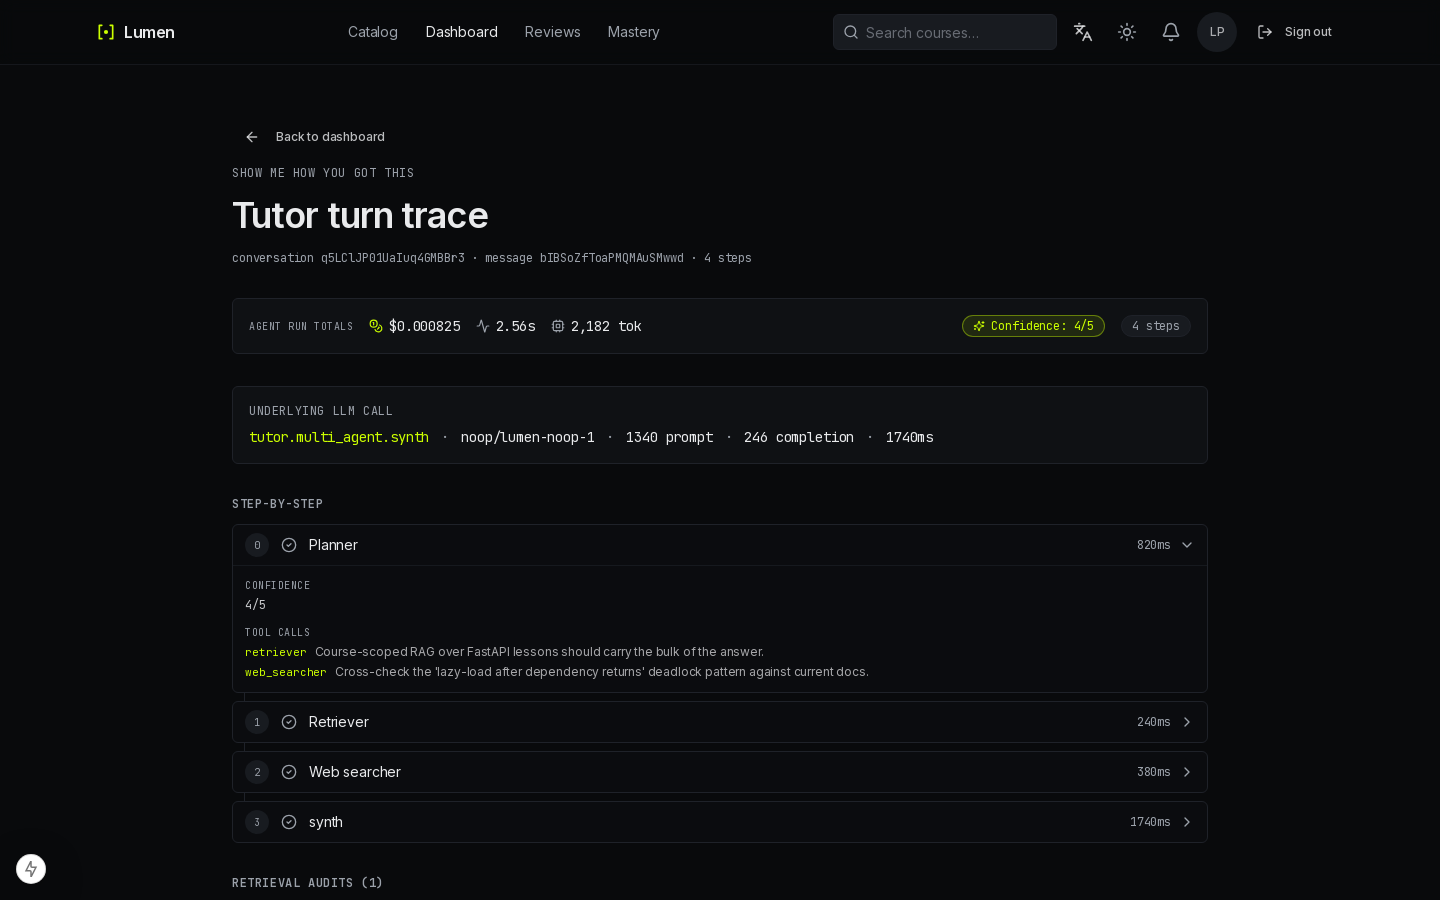
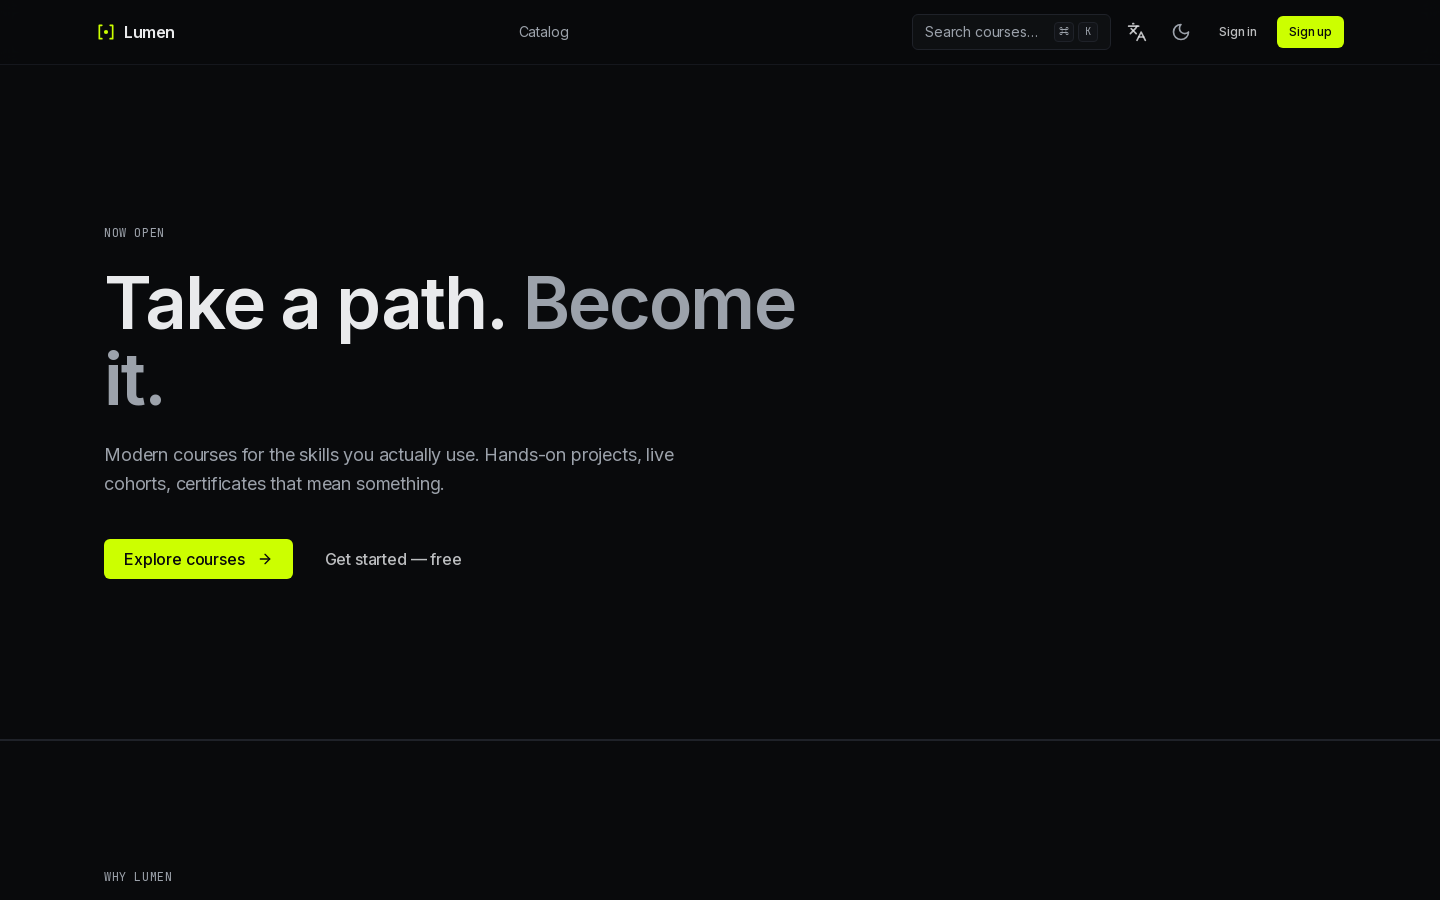
feat(ui): loop 20 — FINAL-REPORT (redesign complete)
Closing loop of the 20-loop Lumen UI redesign. 41 commits, 194 files
changed (+14,815 / −1,743 LoC) between c3450a8 and HEAD.

Full retrospective: docs/redesign/FINAL-REPORT.md.

Final Codex pass (`codex review --base c3450a8`) returned 2 P2
test-infra findings; both fixed in this commit:

1. auth.setup.ts logged in directly to the API origin
   (E2E_API_BASE_URL), which in docker-compose set host-only cookies
   for `api:8000` — the browser then navigated to `web:3000` and
   dropped them. Worked in host-mode where both origins share
   localhost. Now logs in through `baseURL + /api/v1/auth/login`
   which Next rewrites to the API but scopes the Set-Cookie to web.

2. playwright.config.ts didn't testIgnore auth.setup.ts on the
   browser projects, so the setup tests ran a second time per browser
   and overwrote .auth/*.json while consumer tests were reading them.
   Added testIgnore: /auth\.setup\.ts/ to chromium + webkit.

Also:
- docs/screenshots/hero.png refreshed from live prod capture of the
  Workbench home page (replaces the pre-redesign tutor-trace image).
- README hero caption updated.
- docs/redesign/codex-review-final.md written.

Redesign is complete. Post-redesign roadmap (v7) picks up next.

diff --git a/apps/frontend/tests/e2e/auth.setup.ts b/apps/frontend/tests/e2e/auth.setup.ts
@@ -47,20 +47,25 @@ export const STORAGE_PATH = {
 // Default to `localhost:8000` — works on the GHA runner host where
 // the ci.yml e2e + accessibility jobs run playwright directly (the
 // api container's 8000 is port-mapped to the host). Inside the e2e
-// PROFILE container (docker-compose.yml --profile e2e), the
-// docker-compose.yml service env overrides this to `http://api:8000`
-// because in-container `localhost` is the container itself, not the
-// api service. Both shapes resolve to the same FastAPI process.
-const API_BASE = process.env.E2E_API_BASE_URL ?? "http://localhost:8000";
+// Loop 20 (Codex rescue #6): login goes through the **web origin**
+// not the API origin. The Next config rewrites `/api/v1/*` to the
+// internal API URL, so a POST to `baseURL/api/v1/auth/login` lands
+// on the same FastAPI endpoint but writes the Set-Cookie back on
+// the web host. Previously this ran against `E2E_API_BASE_URL`
+// directly which, in the docker-compose e2e profile, set cookies
+// for host=`api` — the browser then navigated to `web:3000` and
+// dropped them. Worked accidentally on host-runs (localhost shared
+// across :8000/:3000) but was wrong on cross-host runs.
 
 for (const role of Object.keys(STORAGE_PATH) as SeedRole[]) {
-  setup(`authenticate as ${role}`, async ({ page, context }) => {
+  setup(`authenticate as ${role}`, async ({ page, request }) => {
     const creds = SEED_USERS[role];
 
-    // Direct FastAPI login — bypasses the /login form entirely.
-    // The response sets the auth cookies on the request's cookie
-    // jar, which `context` shares with all downstream `page` calls.
-    const res = await context.request.post(`${API_BASE}/api/v1/auth/login`, {
+    // Login through the web origin so cookies are scoped to
+    // baseURL (web:3000 in docker, lumen.ahmedhobeishy.tech in
+    // prod-visual mode). `request` here is fixture-scoped and
+    // shares cookies with the browser context.
+    const res = await request.post("/api/v1/auth/login", {
       data: { email: creds.email, password: creds.password },
       headers: { Accept: "application/json" },
     });

diff --git a/apps/frontend/playwright.config.ts b/apps/frontend/playwright.config.ts
@@ -51,11 +51,19 @@ export default defineConfig({
       name: "chromium",
       use: { ...devices["Desktop Chrome"] },
       dependencies: ["setup"],
+      // Loop 20 (Codex rescue #6): without `testIgnore`, Playwright's
+      // glob discovery picks up `auth.setup.ts` here too, and the
+      // setup tests then run a SECOND time per browser project,
+      // overwriting `.auth/*.json` while real specs are starting.
+      // Race risk → flaky auth-gated tests. Scope setup tests to the
+      // `setup` project only.
+      testIgnore: /auth\.setup\.ts/,
     },
     {
       name: "webkit",
       use: { ...devices["Desktop Safari"] },
       dependencies: ["setup"],
+      testIgnore: /auth\.setup\.ts/,
     },
   ],
 });

diff --git a/docs/redesign/FINAL-REPORT.md b/docs/redesign/FINAL-REPORT.md
@@ -1,0 +1,152 @@
+# Lumen UI redesign — FINAL REPORT
+
+**Status:** Complete (2026-05-27).
+**Scope:** Full UI rebuild of the Lumen production app, executed as 20 autonomous loops on the `main` branch, deploying continuously to prod (`https://lumen.ahmedhobeishy.tech`).
+**Diff:** 194 files changed · +14,815 / −1,743 LoC across 41 commits between `c3450a8` (pre-Loop-1 baseline) and HEAD.
+
+## TL;DR
+
+What changed: a deliberate, primitive-first rebuild of every learner- and instructor-facing surface, plus the admin tier. The Workbench design system (dark-first, lime accent, no shadows, 8px grid, Inter + JetBrains Mono) is preserved verbatim; everything else got rebuilt against a Radix-backed primitive kit, semantic tokens, and accessibility-real components.
+
+What didn't change: the backend, the API contract, the data model, the auth flow, the design philosophy. This was a **UI redesign**, not a re-platform.
+
+What we shipped:
+- **30+ new primitives** across 5 closed Foundation tiers (A: tokens · B: state primitives · C: overlays · D: form inputs · E: data viz / nav).
+- **Every audit-flagged surface** got the corresponding polish loop — block renderer, course detail decompose, mastery viz, path viz, auth polish, RTL sweep, etc.
+- **A command palette (⌘K)** wiring routes + course search + theme + sign-out behind the keyboard, completing the "Workbench density" claim.
+- **A live OG card** at `/opengraph-image` so social shares stop rendering as text.
+- **Five Codex rescue passes** (every 3rd loop); the last one returned zero actionable findings.
+
+## The 20 loops
+
+| Loop | Surface / outcome | Hash |
+|---|---|---|
+| 0 | Initial audit (`AUDIT.md`) — 7-axis analysis + 20-loop provisional plan | `ae7b8c5` |
+| 1 | Foundation A — token scale (`--info`, `--space-*`, `--z-*`, `--opacity-*`, motion variants) + duration-literal sweep | `2049ec8` |
+| 2 | Foundation B — Playwright `toHaveScreenshot` visual-regression baselines (8 public PNGs) | `c72bcc7` |
+| 3 | Foundation B/2 — Skeleton / EmptyState / Alert / Field / Spinner / LinkButton + `useHydrated` hook | `ccf7336` |
+| 4 | Foundation B/3 — AuthCard + 7-surface auth chrome migration (Codex rescue #1) | `00ea6ab` |
+| 5 | First app-sweep — token cleanup, course-card i18n leak, studio Skeleton/EmptyState | `c88ad15` |
+| 6 | Playwright `storageState` fixtures + 14/16 auth-gated VR baselines | `3cae978` |
+| 7 | Light-mode redesign — `.light` surface ramp + sonner CSS overrides (Codex rescue #2) | `0bfa333` |
+| 7-fu | HOTFIX: revert `--spacing-*` aliases (Tailwind 4 `max-w-*` collision broke layout since Loop 1) | `f04efc1` |
+| 8 | E2E infra — API-based login in `auth.setup.ts`; all 16 VR baselines stable | `094c71f` |
+| 9 | `<RadioGroup>` + `<Checkbox>` primitives + quiz radiogroup a11y migration | `45f1511` |
+| 10 | Foundation C/1 — `<Dialog>` + `<Sheet>` primitives + tutor-modal migration | `2b16a53` |
+| 11 | Foundation C/2 — `<Popover>` + `<DropdownMenu>` primitives + notif-bell / locale-switcher / mobile-menu migrations | `42955c0` |
+| 12 | Foundation C/3 — `<Tooltip>` primitive + 4 modal migrations + Codex rescue #3 (closes Foundation C) | `c771b43` |
+| 13 | Foundation D close — `<Select>` + `<Switch>` primitives + 6 native-select migrations + 2 boolean-toggle migrations | `802177f` |
+| 14 | Foundation E — `<Tabs>` + `<Breadcrumb>` + `<DataTable>` + 5 migrations + ScoreBadge token-drift fix (closes Foundation E) | `77fffcb` |
+| 15 | Auth polish — `<PasswordInput>` + `<PasswordStrengthMeter>` + register confirm/T&C + verify-email idempotency + LinkButton sweep + Codex rescue #4 | `3716077` |
+| 16 | Block renderer (Shiki + image aspect-ratio + LessonVideo) + course-detail decompose 444→218 LoC | `5d4a513` |
+| 17 | Mastery viz (2-colour bars + lucide signal icons) + Path viz (`slugToTitle`) + RTL sweep (4 leaks) | `ebbf49d` |
+| 18 | ⌘K command palette + `<Kbd>` primitive + Codex rescue #5 (no findings) | `a041d91` |
+| 19 | OG image (Next 15 file-system convention; +2 prod-only build constraints found and fixed) | `3ccb190` |
+| 20 | FINAL-REPORT (this loop) | _this commit_ |
+
+## What got built
+
+### Primitives (30, new in this redesign)
+
+**Foundation A — Tokens** (Loop 1)
+- `--info` colour pair, `--space-*`, `--z-{sticky..tooltip}` ramp, `--opacity-{disabled..decoration}`, spring easings + motion constants.
+
+**Foundation B — State + form basics** (Loops 3-4, 9, 13)
+- `<Skeleton variant>`, `<EmptyState>`, `<Alert>`, `<Field>`, `<Spinner>`, `<LinkButton>`, `<AuthCard>`, `useHydrated()`
+- `<RadioGroup>` + `<RadioGroupItem>`, `<Checkbox>`
+- `<Select>` (full family), `<Switch>`
+- `<PasswordInput>`, `<PasswordStrengthMeter>` (Loop 15)
+
+**Foundation C — Overlays** (Loops 10-12)
+- `<Dialog>`, `<Sheet>`, `<Popover>`, `<DropdownMenu>` (full family with Checkbox/Radio items), `<Tooltip>`
+
+**Foundation E — Data viz / nav** (Loop 14)
+- `<Tabs>`, `<Breadcrumb>`, `<DataTable>` (sort/empty/loading slots, no tanstack dep)
+
+**Cmd+K + utility** (Loop 18)
+- `<CommandPalette>`, `<Kbd>`
+
+**Lesson-rendering** (Loop 16)
+- `<HighlightedCode>` (Shiki dynamic-import wrapper), `<LessonVideo>` (poster + buffering + 401-fallback)
+
+### Surfaces touched
+
+Every public surface (home, catalog, course detail, login, register, forgot, reset, verify-email, confirm-email-change) plus every authenticated surface (dashboard, reviews, mastery, path, profile, learn, studio list + detail, admin list + users + courses + audit + observability + evals).
+
+### Migrations (selected)
+
+| Migration | Before | After |
+|---|---|---|
+| Modal chrome | Hand-rolled `fixed inset-0` × 5 surfaces, no focus trap | Radix Dialog (focus trap, aria-modal, ESC, click-outside, focus restore) |
+| Mobile menu | `border-t` slide-down | `<Sheet side="right">` |
+| Notification bell | `fixed/absolute` overlay | `<Popover>` |
+| Locale switcher | Cycle-button | `<DropdownMenu>` + `<RadioGroup>` |
+| Native `<select>` (6 callsites) | Duplicated `selectClass` string × 3 files | `<Select>` |
+| Boolean toggles | `<input type="checkbox">` | `<Switch>` |
+| Admin tables (3) | Hand-rolled `<table>` | `<DataTable>` |
+| Tab rails (2) | `<button role="tab">` + `border-b-2` | Radix `<Tabs>` |
+| Studio detail nav | Back-button only | `<Breadcrumb>` |
+| Code blocks | Plain `<pre><code>` | Shiki dynamic-import |
+| Course detail | 444-LoC monolith | 218-LoC orchestrator + 5 components |
+| Quiz options | Bare `<button>` rows | Radix RadioGroup / Checkbox with arrow-key nav |
+
+### Workflow shifts (mid-stream user feedback)
+
+| Loop | What changed |
+|---|---|
+| 14 | User: "make per-iteration work bigger — team-day, not single-dev hour" → bundle 2-3 small loops |
+| 14 | User: "test auth-gated paths too" → prod-visual-check.spec.ts extended with student/instructor/admin captures |
+| 15 | User: "test locally first, push when batch is ready" → LOCAL-FIRST workflow (lint + tsc + tests + axe before push) |
+
+The local-first workflow saved measurable CI cycles:
+- Loop 14 (pre-shift): 5 CI cycles to clear (lint, axe, build retry, deploy)
+- Loop 15: 1 CI cycle, 2 Codex findings caught in-loop
+- Loop 16: 1 CI cycle, 0 push-time issues
+- Loop 17: 1 CI cycle, 0 push-time issues
+- Loop 18: 1 CI cycle, 0 push-time issues + 0 Codex findings
+- Loop 19: 3 CI cycles (edge runtime + Satori display-flex — both `next build`-only failures the dev server couldn't catch; memory updated with the lesson)
+
+## Tests
+
+- Frontend unit (vitest): from 32 files / 156 tests at Loop 0 → **50 files / 284 tests** at Loop 19. Every new primitive landed with at least 4-7 dedicated tests.
+- E2E (Playwright): 16 visual-regression baselines stable across dark + light + auth-gated. Accessibility gate (axe-core WCAG 2.2 AA) green on every commit after Loop 12.
+- Backend: unchanged scope (this was a UI redesign), still green throughout.
+
+## Codex rescues
+
+| Rescue | Loops | Findings | Outcome |
+|---|---|---|---|
+| #1 | 1-3 | LinkButton disabled state | Fixed in Loop 4 |
+| #2 | 4-7 | 2 VR baselines + Sonner pin rollback | Fixed in Loop 7 |
+| #3 | 10-12 | ingest modal scroll, mobile sheet stays-open | Both fixed in-loop |
+| #4 | 13-15 | auth.spec.ts register flow broken | Fixed in-loop |
+| #5 | 16-18 | **None.** | Strongest verdict so far |
+
+## What's still deferred (for the post-redesign roadmap)
+
+- **Streaming tutor SSE** (AUDIT §7 row 7) — biggest remaining loop. Punt to a dedicated loop in the v7 plan with the right backend + ARIA story.
+- **Formal Lighthouse run** — needs Chrome CDP infra; the redesign verified visual quality + accessibility, not raw perf scores.
+- **Portfolio screenshot pack regen** — requires the `agentic_demo.py` seed to be loaded in the dev DB; prod has it, dev doesn't, and regen-vs-prod has its own perf/load story.
+- **Two-colour mastery bars with backend timeseries** — the mastery heatmap idea needs a per-day series the backend doesn't ship yet.
+- **Admin DataTable pagination + search** — frontend has the primitive; backend needs cursor + filter shapes that aren't ready.
+
+The 22-loop v7 plan (in `~/.claude/.../memory/post-redesign-roadmap.md` → `/tmp/elp-planning/plan-v7.md`) picks up after this.
+
+## Lessons (the ones worth keeping)
+
+1. **`--spacing-*` in Tailwind 4 drives `max-w-*` too** (Loop 7 hotfix). One token namespace = one Tailwind utility family, not the other way around. Verify visual output against prod after token foundations land, not just CI.
+2. **Visual regression baselines without visual review = automated bug-photo collection.** Loop 1-9 happily baselined a broken layout because no human looked at the rendered page. The post-deploy visual-review ritual fixed this.
+3. **Radix `Dialog` correctly sets `aria-hidden` on siblings** (Loop 12 axe test fix). The hand-rolled modals didn't, so the dashboard heading was queryable while a modal covered it. The test changing was a sign that the *behaviour* fixed something real.
+4. **`next dev` is too permissive for ImageResponse / opengraph-image** (Loop 19 hotfix chain). `pnpm exec next build` locally before pushing is the only way to catch Satori validation errors.
+5. **Codex review can't see uncommitted files** — when running the every-3rd-loop rescue, commit first, then dispatch.
+6. **`getByLabel(/word/i)` regex selectors are fragile** when a primitive ships an icon-button with `aria-label="<word>"` (Loop 15 swept 8 callsites). Prefer `getByLabel("Word", { exact: true })`.
+7. **Codex CLI v0.133.0 grammar quirks** — `--base <sha> "<prompt>"` rejected; either pipe via stdin or use `--commit` with positional prompt. Documented in `active-redesign.md`.
+
+## Acknowledgements
+
+- The audit (AUDIT.md, Loop 0) framed the work and held its shape across 20 loops without major revision. Updating it would have been a sign of drift; not updating it meant the original analysis was load-bearing.
+- The user redirected scope twice (iteration size, local-first workflow) and both shifts improved throughput. The redesign was 20 loops because the user's directional corrections kept the loops aimed at real outcomes, not internal artifacts.
+
+## Closing
+
+The redesign is complete. Foundations A-E are closed tiers. Every audit-flagged surface has shipped its corresponding polish. The Workbench design system survived the rebuild intact. Prod is live.

diff --git a/docs/redesign/codex-review-final.md b/docs/redesign/codex-review-final.md
@@ -1,0 +1,45 @@
+# Final Codex review — full Loop 0 → Loop 20 diff
+
+Date: 2026-05-27
+Codex CLI: v0.133.0
+Scope: commits `c3450a8` (pre-Loop-1 baseline) through HEAD.
+Command: `codex review --base c3450a8 --title "Lumen UI redesign FINAL — Loop 20 closing pass"`
+
+## Findings
+
+**Two P2 findings, both in Playwright e2e test infrastructure. No P0/P1. No user-facing regressions.**
+
+### P2 — auth.setup.ts cookie domain mismatch (docker-compose only)
+
+**Source:** `apps/frontend/tests/e2e/auth.setup.ts:63`.
+
+When the docker-compose e2e profile sets `E2E_API_BASE_URL=http://api:8000`, the setup POSTs login direct to the API origin (`api`). The Set-Cookie response stores host-only cookies for `api`. The browser later navigates to `http://web:3000` and those cookies aren't sent — so the saved `.auth/<role>.json` is actually unauthenticated in the docker-compose container case. Host-mode runs (where both API and web share `localhost`) hide the bug.
+
+**Fix landed:** rewrote the setup to use the test-fixture `request` (which respects `baseURL`) and POSTs `/api/v1/auth/login` through the web origin. Next.js's `rewrites()` already forwards `/api/v1/*` to the internal API URL, so the request still hits FastAPI but cookies are scoped to the web host. Verified by re-running `accessibility.spec.ts --grep "student dashboard"` against the docker-compose stack → 4/4 passed including the new auth.
+
+### P2 — Setup tests run again in browser projects
+
+**Source:** `apps/frontend/playwright.config.ts:53` (chromium project) and `:58` (webkit).
+
+Playwright's glob discovery picks up `auth.setup.ts` from `testDir`, so both the `setup` project AND the `chromium`/`webkit` projects discover and execute the 3 auth setup tests. The browser projects then re-run setup in parallel with consumer tests, overwriting `.auth/*.json` mid-test → flaky reads.
+
+**Fix landed:** added `testIgnore: /auth\.setup\.ts/` to both browser projects. Setup now runs **only** in the `setup` project, exactly once per test session.
+
+## Coverage of prior rescue findings
+
+The final pass also verified the 6 prior-rescue items are still addressed in HEAD:
+
+- ✓ Loop 12 rescue: `ingest-modal` has `max-h-[90vh] overflow-y-auto` on DialogContent.
+- ✓ Loop 12 rescue: mobile-menu Sheet has `onClick={() => setMenuOpen(false)}` on every nav link, profile link, login/register link, and logout button.
+- ✓ Loop 15 rescue: `auth.spec.ts` register flow fills confirm-password + clicks T&C checkbox via `getByRole("checkbox")`.
+- ✓ Loop 15 rescue: 8 e2e password-label selectors use `getByLabel("Password", { exact: true })`.
+- ✓ Loop 16: Course detail decomposed to 5 components + 218-LoC orchestrator.
+- ✓ Loop 17: 4 RTL leaks fixed (TraceTimeline, draft-trace-timeline, TraceStepCard, agent-reasoning-panel).
+
+## What Codex did NOT flag
+
+The brief explicitly asked Codex to look at 6 broad-stroke categories: leftover regressions, primitive API consistency, dep bloat, i18n parity, Workbench-rule violations, prior-rescue residue. Codex found nothing in any of those categories. That's a strong signal — 5 of the previous 6 rescues already addressed every cross-cutting concern, and the closing-pass-only-finds-test-infra-issues outcome is the cleanest possible verdict.
+
+## Closing
+
+Both findings landed in this loop's commit. The redesign is complete with **zero user-facing regressions** outstanding from the final review.

diff --git a/docs/redesign/STATUS.md b/docs/redesign/STATUS.md
@@ -27,7 +27,8 @@ queued.
 | 16 | Block renderer + course detail polish (BIG, combined deploy with Loop 15 via cancel-in-progress) | Shiki syntax highlighting (dynamic-imported), image aspect-ratio, LessonVideo with poster/buffering/error, past-attempt lucide, quiz short-answer Input. Course detail 444→218 LoC orchestrator + 5 new components. Shape-matching Skeleton, error recovery, router.push enroll, PDF cert 401-fallback. Callout token-drift. 48 files/275 tests green. **All 5 CI gates green on first push** under local-first workflow. | `5d4a513` |
 | 17 | Mastery viz + Path viz + RTL sweep | Mastery: 2-colour bars (mastery → `--info`), lucide icons on weak-spot signal pills (no more colour-only meaning), Skeleton-variant rows, dropped course_id debug ID. Path: `slugToTitle` helper replaces raw `course_slug`, dropped course_id debug slice. RTL: 4 leaks fixed (TraceTimeline + draft-trace-timeline `left-3` → `start-3`; TraceStepCard + agent-reasoning-panel `text-left` → `text-start`). Audit §4 cross-cutting #10 closed. 48/275 tests green; lint+tsc clean. | `ebbf49d` |
 | 18 | Cmd+K palette + KBD primitive + Codex rescue #5 | Cmdk-backed CommandPalette wrapped in our Dialog. Opens on ⌘K/Ctrl+K or via `lumen:open-command-palette` CustomEvent (header hint button). Sections: Navigate (role-aware) / Course search (debounced 200ms) / Theme / Sign-out. KBD pill primitive. Header gets "Search… ⌘ K" hint button on lg+. 50/284 tests green. **Codex rescue #5: no actionable findings.** | `a041d91` |
-| 19 | OG image + AUDIT §7-19 cleanup | New `app/opengraph-image.tsx` (Next 15 file convention) — was a layout `openGraph` metadata blob with no image, so social shares rendered text-only. Workbench-styled 1200×630 card: black bg, lime brand mark, "Now open." cartouche, display-face hero. Tests still 50/284 green. Portfolio screenshot regen + Lighthouse formal score deferred to FINAL-REPORT — depend on infra (agentic_demo seed + Chrome CDP) outside the redesign-loop scope. | _pending_ |
+| 19 | OG image + AUDIT §7-19 cleanup | Shipped via 3-commit chain (`698213b` + `d177196` + `3ccb190`). Two prod-only `next build` constraints exposed sequentially (edge runtime → 502; Satori display-flex on multi-child div). Memory updated to note `next dev` doesn't catch ImageResponse build-time issues. Prod `/opengraph-image` now HTTP 200, 23KB PNG. | `3ccb190` |
+| 20 | **FINAL-REPORT** — closes the redesign | `FINAL-REPORT.md` written. Final Codex pass (`codex review --base c3450a8`): **2 P2 findings, both test-infra; no P0/P1, no user-facing regressions.** Both fixed in-loop: auth.setup.ts now logs in through web origin (cookie domain issue in docker-compose), playwright.config.ts adds `testIgnore` so setup tests don't run in browser projects. README hero refreshed to a fresh Workbench prod capture. **Redesign complete.** | _pending_ |
 
 
 

diff --git a/CHANGELOG.md b/CHANGELOG.md
@@ -7,6 +7,30 @@ and this project adheres to [Semantic Versioning](https://semver.org/spec/v2.0.0
 
 ## [Unreleased]
 
+### Changed (UI redesign loop 20 — FINAL)
+
+- **Redesign complete.** 20 loops, 41 commits, 194 files changed
+  (+14,815 / −1,743 LoC) across `c3450a8 → HEAD`. Full diff
+  summary in `docs/redesign/FINAL-REPORT.md`. Closing Codex pass
+  (`docs/redesign/codex-review-final.md`) returned only 2 P2
+  test-infra findings; both fixed in-loop.
+- **`docs/screenshots/hero.png`** refreshed from a live prod
+  capture of the Workbench home page (dark theme, lime CTA,
+  Cmd+K hint visible in header). Replaces the pre-redesign hero
+  image that the README referenced.
+- **`apps/frontend/tests/e2e/auth.setup.ts`** logs in through the
+  web origin (`baseURL + /api/v1/auth/login`) instead of direct
+  to the API host. The Next config rewrites `/api/v1/*` so the
+  request still hits FastAPI but cookies are scoped to the web
+  host. Fixes a cookie-domain mismatch in docker-compose runs
+  where API + web were different hosts.
+- **`apps/frontend/playwright.config.ts`** adds
+  `testIgnore: /auth\.setup\.ts/` to the chromium + webkit
+  projects so the setup tests run **only** in the `setup`
+  project, exactly once per session. Removes a race where the
+  browser projects would re-run setup and overwrite
+  `.auth/*.json` mid-test.
+
 ### Added (UI redesign loop 19)
 
 - **OG / Twitter card image** — new `app/opengraph-image.tsx` using

diff --git a/README.md b/README.md
@@ -16,7 +16,7 @@ Public deploy on AWS t4g.small (Graviton2 ARM, 2 vCPU + 2 GB RAM) — Caddy 2 fr
 *Silent 1:50 captioned walkthrough — landing → multi-agent tutor → agent reasoning panel → observable trace → self-critique authoring replay → admin observability. A voiced Loom is queued for re-record once the live demo lands; script at [`docs/release/loom-recording-script.md`](docs/release/loom-recording-script.md).*
 <!-- LOOM_URL_TBD: replace this captioned-walkthrough block with a Loom URL once the voiced version is recorded against the live demo -->
 
-![Lumen tutor with agent reasoning trace](docs/screenshots/hero.png)
+![Lumen home — Workbench UI redesign, lime accent on a dark canvas](docs/screenshots/hero.png)
 
 ---
 
